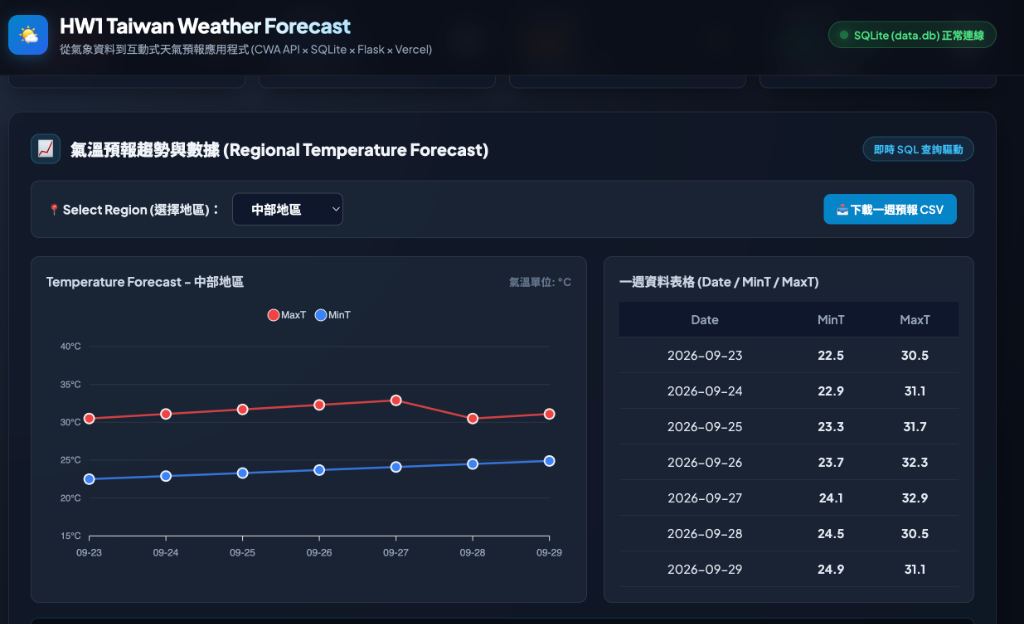
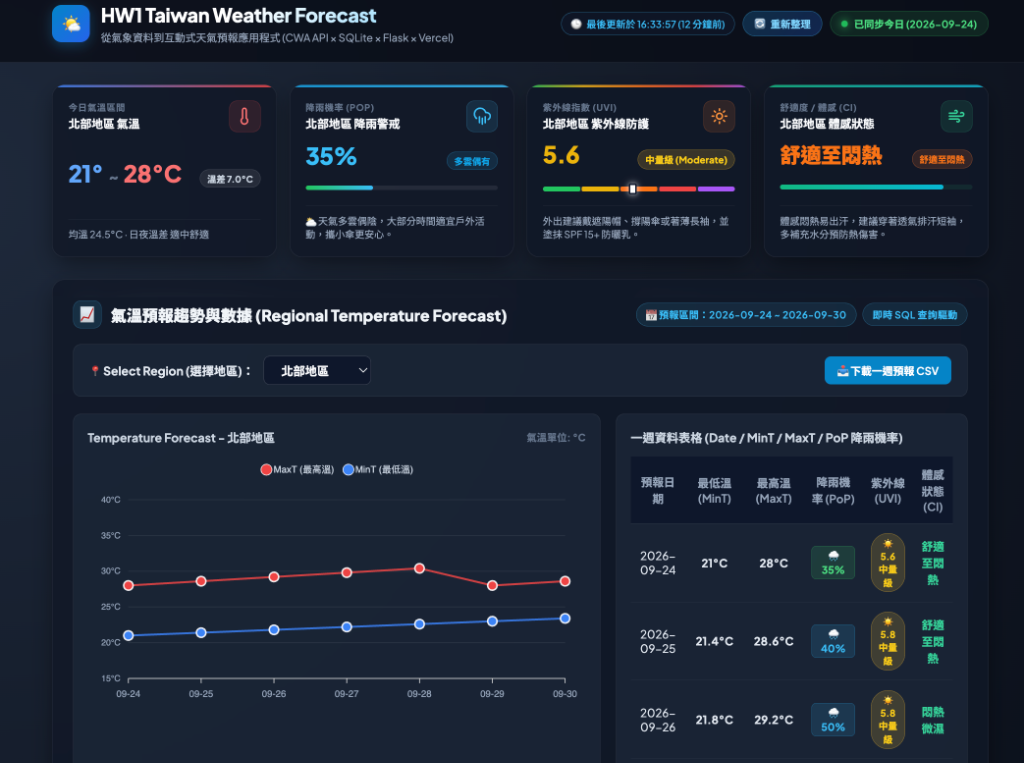
docs: 移除後端 SQL 查詢展示框並更新 README 最新 Demo 預覽圖

diff --git a/templates/index.html b/templates/index.html
@@ -1134,12 +1134,6 @@
           </div>
         </div>
       </div>
-
-      <!-- 顯示執行的 SQL 查詢語法 -->
-      <div class="sql-box">
-        <span>⚡ <b>後端執行 SQL 查詢：</b></span>
-        <code id="sql-text">SELECT id, regionName, dataDate, minT, maxT, pop, uvi, ci FROM TemperatureForecasts WHERE regionName = '中部地區' ORDER BY dataDate ASC;</code>
-      </div>
     </section>
 
     <!-- ================================================================= -->
@@ -2265,11 +2259,7 @@
       const regionData = allForecasts.filter(d => d.regionName === regionName);
       if (!regionData.length) return;
 
-      // 1. 更新 SQL 顯示
-      document.getElementById("sql-text").textContent = 
-        `SELECT id, regionName, dataDate, minT, maxT, pop, uvi, ci FROM TemperatureForecasts WHERE regionName = '${regionName}' ORDER BY dataDate ASC;`;
-
-      // 2. 更新折線圖標題
+      // 1. 更新折線圖標題
       if (currentSelectedDistrict) {
         const dist = DISTRICT_DATA.find(d => d.id === currentSelectedDistrict || d.name === currentSelectedDistrict);
         document.getElementById("chart-title").textContent = dist 

diff --git a/README.md b/README.md
@@ -4,10 +4,10 @@
 
 ---
 
-### 📈 氣溫預報折線圖與數據表格 (Regional Temperature Forecast)
-![氣溫預報折線圖與數據表格](assets/demo_forecast.png)
+### 📊 生活氣象指標卡片、趨勢折線圖與一週數據表格 (Weather Metrics & Forecast)
+![生活氣象指標卡片、趨勢折線圖與一週數據表格](assets/demo_forecast.png)
 
 ---
 
-### 🗺 全台各區氣溫分佈互動地圖 (Taiwan Temperature Map)
-![全台各區氣溫分佈互動地圖](assets/demo_map.png)
+### 🗺 全台各區氣候分佈互動地圖與生活防曬指引 (Interactive Weather Map & Lifestyle Advice)
+![全台各區氣候分佈互動地圖與生活防曬指引](assets/demo_map.png)
